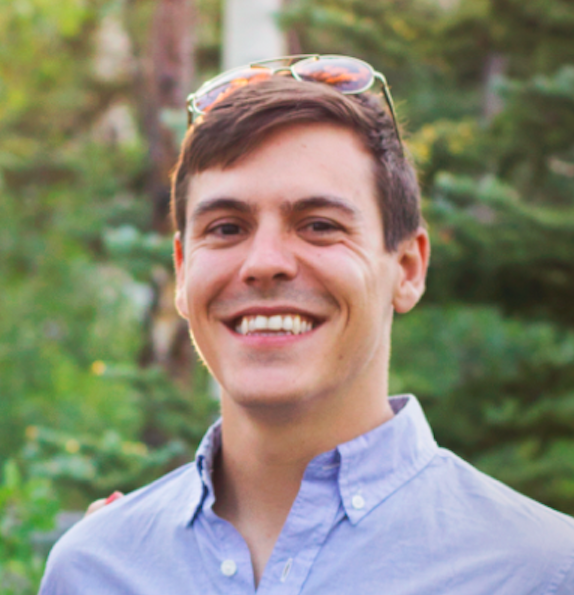
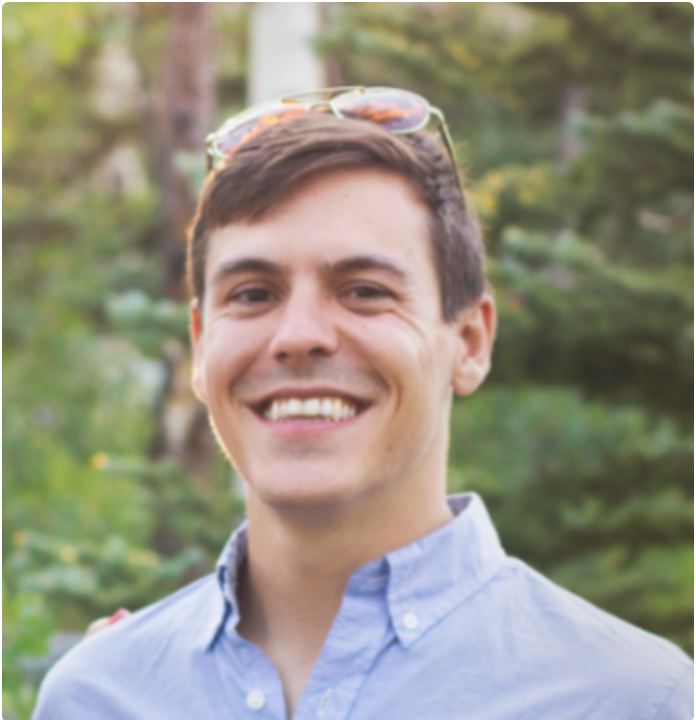
resize portraits

diff --git a/src/components/Pages/Team.js b/src/components/Pages/Team.js
@@ -14,7 +14,7 @@ export const Team = () => {
             <div className="card-header">
               <h5 className="card-title">Steven Shen</h5>
             </div>
-            <img className="card-img-top rounded" src="images/steven.jpg" alt="Steven Shen"/>
+            <img className="card-img-top portrait rounded" src="images/steven.png" alt="Steven Shen"/>
             <div className="card-body">
               <ul className="list-inline">
                 <li className="list-inline-item"><SocialIcon url="https://www.linkedin.com/in/steeveshen/" /></li>
@@ -29,7 +29,7 @@ export const Team = () => {
             <div className="card-header">
               <h5 className="card-title">Max Appleton</h5>
             </div>
-            <img className="card-img-top rounded" src="images/max.png" alt="Max Appleton"/>
+            <img className="card-img-top portrait rounded" src="images/max.png" alt="Max Appleton"/>
             <div className="card-body">
               <ul className="list-inline">
                 <li className="list-inline-item"><SocialIcon url="https://www.linkedin.com/in/max-appleton/" /></li>
@@ -44,7 +44,7 @@ export const Team = () => {
             <div className="card-header">
               <h5 className="card-title">Andrew Houston-Floyd</h5>
             </div>
-            <img className="card-img-top rounded" src="images/andrew.png" alt="Andrew Houston-Floyd"/>
+            <img className="card-img-top portrait rounded" src="images/andrew.png" alt="Andrew Houston-Floyd"/>
             <div className="card-body">
               <ul className="list-inline">
                 <li className="list-inline-item"><SocialIcon url="https://www.linkedin.com/in/andrew-houston-floyd" /></li>

diff --git a/src/assets/styles/style.css b/src/assets/styles/style.css
@@ -22,6 +22,12 @@
   display: inline-block;
 }
 
+.portrait {
+  margin: 0 auto;
+  width: 75%;
+  display: inline-block;
+}
+
 .card {
   border: none;
 }
